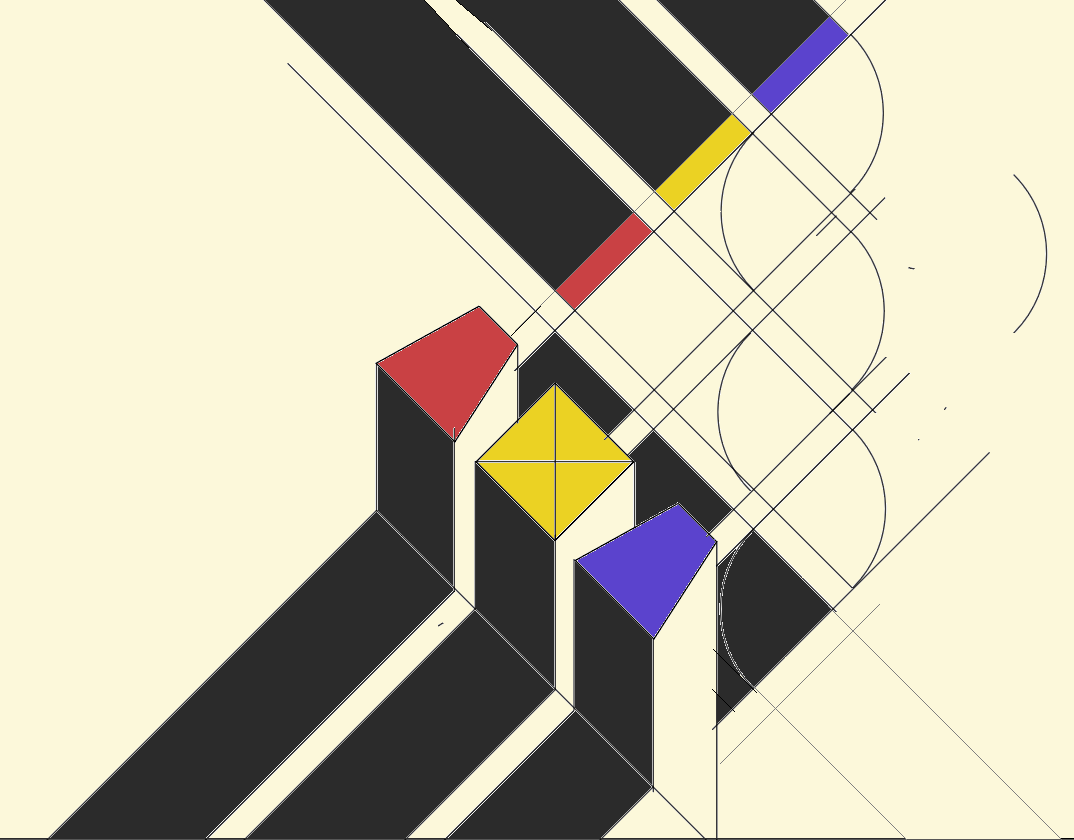
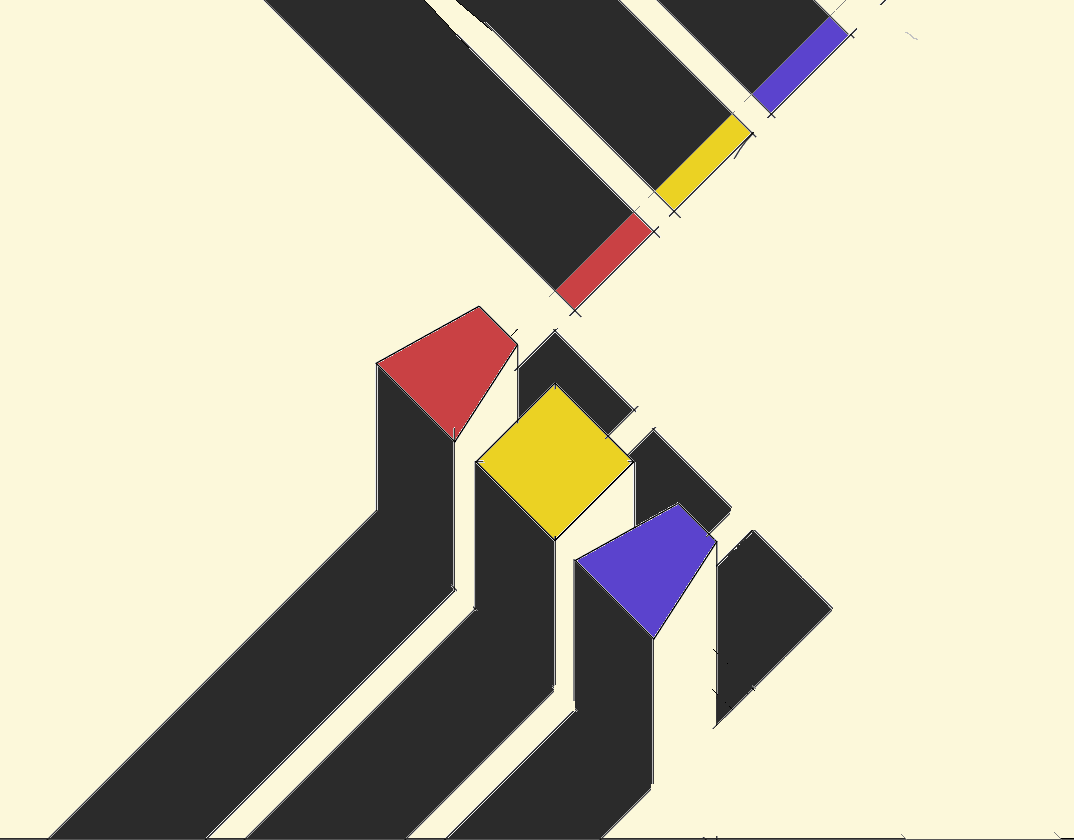
text rotation and text design thumbnails

diff --git a/styleIndex.css b/styleIndex.css
@@ -1,12 +1,12 @@
 
 @media screen and (orientation: portrait) {
     body {
-        background-image: url("HomeThumbnail.png");
+        background-image: url("./images/bg_index_draft_3.png");
         
         background-size: auto 100vw;
         background-repeat:no-repeat;
         background-position: top right;
-        background-color: rgb(255, 201, 14);
+        background-color: #FCF8DA;
         margin: 0;
         font-family: Verdana, sans-serif;
         /*background-color: rgb(227, 164, 19);*/
@@ -15,46 +15,104 @@
 }
 @media screen and (orientation: landscape) {
 body{
-    background-image: url("HomeThumbnail.png");
+    background-image: url("./images/bg_index_draft_3.png");
     
     background-size: auto 100vh;
     background-repeat:no-repeat;
-    background-position: top right;
-    background-color: rgb(255, 201, 14);
+    background-position: top center;
+    background-color: #FCF8DA
+    ;
     margin: 0;
     font-family: Verdana, sans-serif;
     /*background-color: rgb(227, 164, 19);*/
     place-items: right;
 }
 }
-h1{  
-    color: black;
-    width:200px;
-    margin-left: calc(100vw - 42vh);
-    margin-top:41vh;
-    position: 100vw;
+#luke_henry{  
+    
+    -webkit-transform: rotate(45deg);
+    -moz-transform: rotate(45deg);
+    -o-transform: rotate(45deg);
+    transform: rotate(45deg);
+
+    color: #FCF8DA;
+    
+    margin-left: calc(50vw - 5vh);
+    margin-top:0vh;
+    
+    line-height: 260%;
     
     background-size: 100vw;
-    
+    position: absolute;
 
-    font-size: 18pt;
+    font-size: 32pt;
     
-    text-align: left;
+    text-align: right;
 }
+
+
 #cs_button{
-    color: black;
-    width:200px;
-    margin-left: calc(100vw - 85vh);
-    margin-top:11vh;
-    position: 100vw;
+    -webkit-transform: rotate(-45deg);
+    -moz-transform: rotate(-45deg);
+    -o-transform: rotate(-45deg);
+    transform: rotate(-45deg);
+
+    text-decoration:none;
+    margin-left: calc(50vw - 50vh);
+    margin-top:80vh;
     
+    position:absolute;
     background-size: 100vw;
     
 
-    font-size: 12pt;
+    font-size: 32pt;
     
     text-align: left;
 }
+
+#cs_button:visited,   
+#cs_button:active  
+{
+    color :#fcf8da;
+    
+}
+
+#cs_button:hover,
+#cs_button:focus{
+    color:red;
+} 
+
+
+#art_button{
+    -webkit-transform: rotate(-45deg);
+    -moz-transform: rotate(-45deg);
+    -o-transform: rotate(-45deg);
+    transform: rotate(-45deg);
+
+    text-decoration:none;
+    margin-left: calc(50vw - 20vh);
+    margin-top:80vh;
+    
+    position:absolute;
+    background-size: 100vw;
+    
+
+    font-size: 32pt;
+    
+    text-align: left;
+}
+
+#art_button:visited,   
+#art_button:active  
+{
+    color :#fcf8da;
+    
+}
+
+#art_button:hover,
+#art_button:focus{
+    color:red;
+} 
 p{
    
     font-size:12pt;
@@ -62,9 +120,6 @@ p{
     text-align: left;
     text-indent: 12pt;
 }
-div{
-    padding: 10px;
-    height: 200px;
-}
+
 
 

diff --git a/index.html b/index.html
@@ -9,16 +9,16 @@
 <body>
 
     
-    <h1>
+    <h1 id="luke_henry">
         <strong>Luke</strong> 
         <br>
-        <strong style="color:rgb(255, 255, 255);">
+        <strong>
             Henry
         </strong>
     </h1>
     
-    <div id="cs_button"><a href="CSPage.html">Computer Science Projects</a></div>
-    <div id="art_button"><a href="ArtPage.html">Artwork</a></div>
+    <a href="CSPage.html" id="cs_button"><strong>cs projects</strong></a>
+    <a href="ArtPage.html" id="art_button"><strong>artwork</strong></a>
 
 </body>
 </html>
